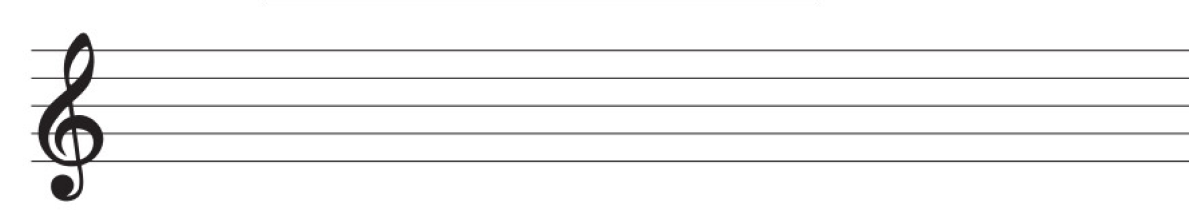
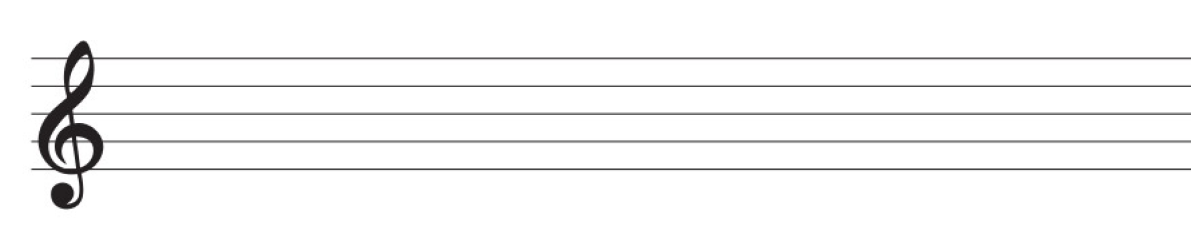
💄[design] 배경 흰색 설정

Changed region(s): [[0.0, 0.1376, 1.0, 0.7982], [0.0311, 0.8807, 0.0622, 0.9358], [0.0311, 0.7982, 0.0622, 0.8257]]

diff --git a/src/playPiano.java b/src/playPiano.java
@@ -19,15 +19,15 @@ public class playPiano extends JFrame
     public playPiano() {
         setTitle("Sound Mate - Play Piano");         // super("Sound Mate"); 같은 기능
         this.setSize(1280,720);
+        this.getContentPane().setBackground(Color.white);
         this.setLocationRelativeTo(null);       // 창을 가운데에 띄움
         this.setDefaultCloseOperation(EXIT_ON_CLOSE);
         this.setVisible(true);
         this.setLayout(new BorderLayout());
 
-
-        // 컨트롤 패널
-//        ControlInterface controlInterface = new ControlInterface();
-//        this.add(controlInterface, BorderLayout.NORTH);
+        // 컨트롤러 패널
+        src.menuBar menuBar = new menuBar();
+        this.add(menuBar, BorderLayout.NORTH);
 
         // 악보 패널
         sheetMusicPanel = new JPanel() {
@@ -35,10 +35,11 @@ public class playPiano extends JFrame
             protected void paintComponent(Graphics g) {
                 super.paintComponent(g);
                 ImageIcon sheetMusic = new ImageIcon("src/img/오선지.png");
-                g.drawImage(sheetMusic.getImage(), 0, 100, this);
+                g.drawImage(sheetMusic.getImage(), 0, 0, this);
             }
         };
         sheetMusicPanel.setPreferredSize(new Dimension(1191, 218));
+        sheetMusicPanel.setBackground(Color.WHITE);
         add(sheetMusicPanel, BorderLayout.EAST);
 
 

diff --git a/src/playGuitar.java b/src/playGuitar.java
@@ -18,6 +18,7 @@ public class playGuitar extends JFrame {
     public playGuitar() {
         setTitle("Sound Mate - Play Guitar");         // super("Sound Mate"); 같은 기능
         this.setSize(1280, 720);
+        this.getContentPane().setBackground(Color.white);
         this.setLocationRelativeTo(null);       // 창을 가운데에 띄움
         this.setDefaultCloseOperation(EXIT_ON_CLOSE);
         this.setVisible(true);
@@ -35,10 +36,11 @@ public class playGuitar extends JFrame {
             protected void paintComponent(Graphics g) {
                 super.paintComponent(g);
                 ImageIcon sheetMusic = new ImageIcon("src/img/오선지.png");
-                g.drawImage(sheetMusic.getImage(), 0, 20, this);
+                g.drawImage(sheetMusic.getImage(), 0, 0, this);
             }
         };
         sheetMusicPanel.setPreferredSize(new Dimension(1191, 218));
+        sheetMusicPanel.setBackground(Color.WHITE);
         add(sheetMusicPanel, BorderLayout.EAST);
 
 

diff --git a/src/Guitar.java b/src/Guitar.java
@@ -12,7 +12,7 @@ public class Guitar extends JPanel {
 
     public Guitar() {
         setLayout(new GridLayout(1, 10));
-        //setLayout(new FlowLayout(FlowLayout.LEFT, 0, 0));
+        setBackground(Color.WHITE);
 
         tileMap = new HashMap<>();
         tileImages = new HashMap<>();
@@ -29,6 +29,9 @@ public class Guitar extends JPanel {
             JLabel tile = new JLabel(new ImageIcon(images.get("default")));     // 각 키의 기본 이미지 설정
             tile.setHorizontalAlignment(JLabel.CENTER);
             tile.setVerticalAlignment(JLabel.CENTER);
+
+            tile.setBackground(Color.WHITE);
+
             add(tile);      // 패널에 타일 추가
             tileMap.put(key, tile);     // Map에 키와 타일 매핑
         }

diff --git a/src/Drum.java b/src/Drum.java
@@ -14,6 +14,7 @@ public class Drum extends JPanel {
     public Drum() {
         //setLayout(new GridLayout(1, 10));
         setLayout(new FlowLayout(FlowLayout.LEFT, 0, 0));
+        setBackground(Color.WHITE);
 
         tileMap = new HashMap<>();
         tileImages = new HashMap<>();
@@ -30,6 +31,9 @@ public class Drum extends JPanel {
             JLabel tile = new JLabel(new ImageIcon(images.get("default")));     // 각 키의 기본 이미지 설정
             tile.setHorizontalAlignment(JLabel.CENTER);
             tile.setVerticalAlignment(JLabel.CENTER);
+
+            tile.setBackground(Color.WHITE);
+
             add(tile);      // 패널에 타일 추가
             tileMap.put(key, tile);     // Map에 키와 타일 매핑
         }

diff --git a/src/Piano.java b/src/Piano.java
@@ -13,6 +13,7 @@ public class Piano extends JPanel {
 
     public Piano() {
         setLayout(new GridLayout(1, 10));
+        setBackground(Color.WHITE);
 
         tileMap = new HashMap<>();
         tileImages = new HashMap<>();
@@ -29,6 +30,9 @@ public class Piano extends JPanel {
             JLabel tile = new JLabel(new ImageIcon(images.get("default")));     // 각 키의 기본 이미지 설정
             tile.setHorizontalAlignment(JLabel.CENTER);
             tile.setVerticalAlignment(JLabel.CENTER);
+
+            tile.setBackground(Color.WHITE);
+
             add(tile);                  // 패널에 타일 추가
             tileMap.put(key, tile);     // Map에 키와 타일
         }

diff --git a/src/playDrum.java b/src/playDrum.java
@@ -34,10 +34,11 @@ public class playDrum extends JFrame {
             protected void paintComponent(Graphics g) {
                 super.paintComponent(g);
                 ImageIcon sheetMusic = new ImageIcon("src/img/오선지.png");
-                g.drawImage(sheetMusic.getImage(), 0, 20, this);
+                g.drawImage(sheetMusic.getImage(), 0, 0, this);
             }
         };
         sheetMusicPanel.setPreferredSize(new Dimension(1191, 218));
+        sheetMusicPanel.setBackground(Color.WHITE);
         add(sheetMusicPanel, BorderLayout.EAST);
 
 
